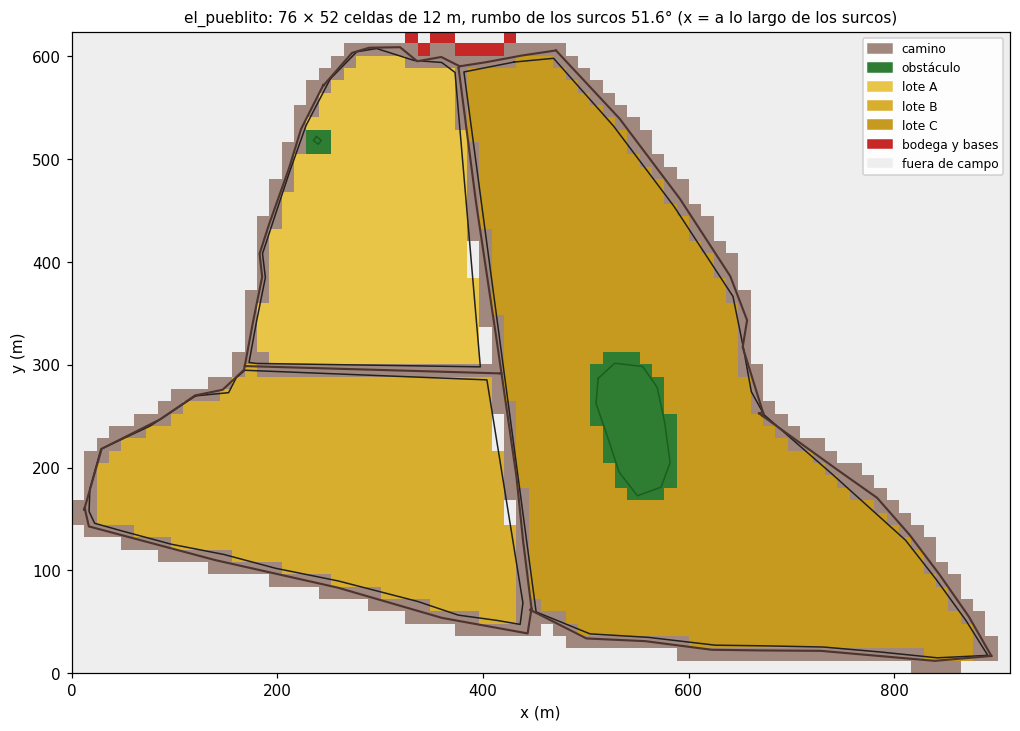
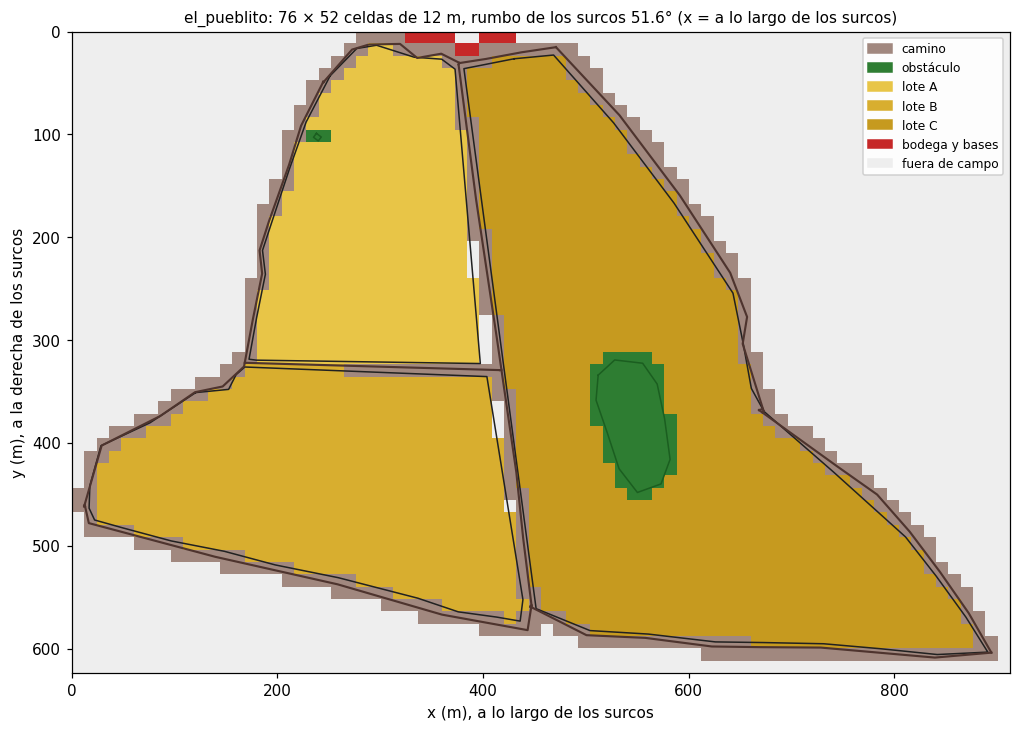
Mapa sin espejo: el eje y de la cuadrícula va a la derecha de los surcos
Unity dibuja la celda (x, y) en (x·s, 0, −y·s) y harvest_sim usa norte = y − 1. Con la y a la
izquierda de los surcos, El Pueblito habría salido en espejo. Ahora la y va a la derecha: el marco,
la afín del relieve, la figura (y hacia abajo) y la especificación cambian juntos. El mapa se
regeneró (1772 celdas de campo, -2.6 %; bodega en [31, 1]) y se volvió a correr G con 4 estrategias x
20 seeds: sigue con 0 colisiones, 0 BLOQUEO, 0 R12 y 0 carros sobre cultivo.

diff --git a/tools/kml_a_mapa.py b/tools/kml_a_mapa.py
@@ -49,7 +49,8 @@ def dibujar(mapa: dict, ruta: Path) -> None:
     tonos = ["#e8c547", "#d8ae2f", "#c69a1f", "#b5891a", "#a27a17"][:len(lotes)]
     colores = ["#eeeeee", "#a1887f", "#2e7d32"] + tonos + ["#c62828"]
     fig, ax = plt.subplots(figsize=(11, 11 * h / w + 1))
-    ax.imshow(g, cmap=ListedColormap(colores), origin="lower", extent=(0, w * s, 0, h * s), vmin=0, vmax=patio,
+    # y crece hacia abajo (como en Unity, donde la celda (x, y) va en (x·s, 0, −y·s)): así el dibujo no sale en espejo
+    ax.imshow(g, cmap=ListedColormap(colores), origin="upper", extent=(0, w * s, h * s, 0), vmin=0, vmax=patio,
               interpolation="nearest")
     formas = mapa["geo"]["formas"]
     for pol in formas["lotes"].values():
@@ -67,8 +68,8 @@ def dibujar(mapa: dict, ruta: Path) -> None:
     ax.legend(handles=leyenda, loc="upper right", fontsize=8, framealpha=0.9)
     ax.set_title(f"{mapa['nombre']}: {w} × {h} celdas de {s:g} m, rumbo de los surcos "
                  f"{mapa['geo']['rumbo_grados']:.1f}° (x = a lo largo de los surcos)", fontsize=10)
-    ax.set_xlabel("x (m)")
-    ax.set_ylabel("y (m)")
+    ax.set_xlabel("x (m), a lo largo de los surcos")
+    ax.set_ylabel("y (m), a la derecha de los surcos")
     ruta.parent.mkdir(parents=True, exist_ok=True)
     fig.savefig(ruta, dpi=110, bbox_inches="tight")
     plt.close(fig)

diff --git a/src/harvest_sim/mapa/convertir.py b/src/harvest_sim/mapa/convertir.py
@@ -53,7 +53,9 @@ class ErrorMapa(ValueError):
 
 @dataclass
 class Marco:
-    """Marco de la cuadrícula: x a lo largo de los surcos (rumbo θ), y = x girado 90° a la izquierda."""
+    """Marco de la cuadrícula: x a lo largo de los surcos (rumbo θ) e y a la DERECHA de los surcos (x girado
+    90° en sentido horario). Así, con la convención de harvest_sim y de Unity (norte = y − 1; Unity dibuja la
+    celda (x, y) en (x·s, 0, −y·s)), el mapa se ve como en la realidad, sin espejo."""
     e0: float
     n0: float
     rumbo: float
@@ -61,11 +63,11 @@ class Marco:
     def a_cuadricula(self, e: float, n: float) -> tuple[float, float]:
         t = math.radians(self.rumbo)
         de, dn = e - self.e0, n - self.n0
-        return de * math.sin(t) + dn * math.cos(t), -de * math.cos(t) + dn * math.sin(t)
+        return de * math.sin(t) + dn * math.cos(t), de * math.cos(t) - dn * math.sin(t)
 
     def a_utm(self, x: float, y: float) -> tuple[float, float]:
         t = math.radians(self.rumbo)
-        return self.e0 + x * math.sin(t) - y * math.cos(t), self.n0 + x * math.cos(t) + y * math.sin(t)
+        return self.e0 + x * math.sin(t) + y * math.cos(t), self.n0 + x * math.cos(t) - y * math.sin(t)
 
 
 def _nombre_corto(nombre: str) -> str:

diff --git a/src/harvest_sim/mapa/relieve.py b/src/harvest_sim/mapa/relieve.py
@@ -23,14 +23,14 @@ ATRIBUCION_DEM = (
 
 
 def transformacion_cuadricula(geo: dict, tamano_celda_m: float):
-    """Afín de (columna, fila) de la cuadrícula a UTM: E = E0 + s·sinθ·col − s·cosθ·fila,
-    N = N0 + s·cosθ·col + s·sinθ·fila (el mismo marco de convertir.Marco)."""
+    """Afín de (columna, fila) de la cuadrícula a UTM: E = E0 + s·sinθ·col + s·cosθ·fila,
+    N = N0 + s·cosθ·col − s·sinθ·fila (el mismo marco de convertir.Marco: y a la derecha de los surcos)."""
     from affine import Affine
 
     t = math.radians(geo["rumbo_grados"])
     s = tamano_celda_m
     e0, n0 = geo["origen_utm"]
-    return Affine(s * math.sin(t), -s * math.cos(t), e0, s * math.cos(t), s * math.sin(t), n0)
+    return Affine(s * math.sin(t), s * math.cos(t), e0, s * math.cos(t), -s * math.sin(t), n0)
 
 
 def alturas_en_cuadricula(ruta_dem: str | Path, geo: dict, tamano_celda_m: float, ancho: int, alto: int):

diff --git a/tests/test_mundo_mapa.py b/tests/test_mundo_mapa.py
@@ -96,7 +96,7 @@ def test_r12_fuera_de_campo_es_fijo_para_todos(mundo_g):
 
 def test_r13_cultivo_en_pie_solo_para_carros(mundo_g):
     campo = mundo_g.cultivo_en_pie()
-    assert len(campo) == 1762
+    assert len(campo) == 1772
     assert campo <= mundo_g.bloqueadas_para("carro_1")
     assert not campo & mundo_g.bloqueadas_para("cosechadora_1")
     cosechadora = Dummy("cosechadora_1")
@@ -150,7 +150,7 @@ def test_mas_cosechadoras_que_lotes_parte_el_mas_grande(config_g):
     zonas = mundo.zonas()
     assert len(zonas) == 4 and all(zonas.values())
     todas = [c for j in range(1, 5) for c in mundo.camino(f"cosechadora_{j}")]
-    assert len(todas) == len(set(todas)) == 1762
+    assert len(todas) == len(set(todas)) == 1772
 
 
 def test_descripcion_23_valida(mundo_g, config_g):

diff --git a/tests/test_mapa.py b/tests/test_mapa.py
@@ -85,7 +85,7 @@ def test_area_dentro_de_la_tolerancia(generado):
     linea = next(x for x in reporte if x.startswith("área:"))
     error = float(linea.split("(")[1].split(",")[1].split("%")[0])
     assert abs(error) < 5
-    assert {n: len(c) for n, c in mapa["lotes"].items()} == {"A": 353, "B": 487, "C": 922}
+    assert {n: len(c) for n, c in mapa["lotes"].items()} == {"A": 364, "B": 489, "C": 919}
 
 
 def test_arboleda_y_poste_son_obstaculos(generado):

diff --git a/docs/especificacion_terreno.md b/docs/especificacion_terreno.md
@@ -69,12 +69,12 @@ Cada celda es de un solo tipo, con esta prioridad:
 | 4 | `patio` | Bodega y bases (§4.5) |
 | 5 | `fuera_de_campo` | Todo lo demás |
 
-Si, por respetar el campo de las orillas, los caminos en celdas quedan en varias piezas (aunque la red geométrica sea una), cada pieza se une a la principal por el **puente más corto de celdas de campo**. Esas celdas pasan a camino y el reporte dice cuántas son (21 en El Pueblito).
+Si, por respetar el campo de las orillas, los caminos en celdas quedan en varias piezas (aunque la red geométrica sea una), cada pieza se une a la principal por el **puente más corto de celdas de campo**. Esas celdas pasan a camino y el reporte dice cuántas son (17 en El Pueblito).
 
 Cada celda de campo guarda su lote (A, B o C).
 
 **Validaciones** (el convertidor falla si no se cumplen):
-- el área cosechable difiere en menos de 5 % del área real: lotes menos obstáculos, porque el KML no tiene huecos y la arboleda está dentro del lote C. En El Pueblito la diferencia es de −3.2 %;
+- el área cosechable difiere en menos de 5 % del área real: lotes menos obstáculos, porque el KML no tiene huecos y la arboleda está dentro del lote C. En El Pueblito la diferencia es de −2.6 %;
 - todo el campo es alcanzable desde la bodega por camino, patio o campo;
 - cada lote toca al menos una celda de camino.
 
@@ -123,8 +123,9 @@ La bodega y las bases van en celdas que no son campo ni camino, pegadas al camin
 
 - `altura_m` es opcional (§8).
 - `geo.formas` está en **metros del marco de la cuadrícula**: el origen es la esquina de la celda (0, 0), x a lo largo de los surcos y y perpendicular.
-- `geo.origen_utm` = (E0, N0) y `geo.rumbo_grados` = θ (desde el norte, en sentido horario) permiten volver a UTM. El eje x de la cuadrícula es la dirección de los surcos, (sin θ, cos θ) en (E, N), y el eje y es ese mismo eje girado 90° a la izquierda, (−cos θ, sin θ):
-  `E = E0 + x·sin θ − y·cos θ`, `N = N0 + x·cos θ + y·sin θ` (x e y en metros del marco de la cuadrícula).
+- `geo.origen_utm` = (E0, N0) y `geo.rumbo_grados` = θ (desde el norte, en sentido horario) permiten volver a UTM. El eje x de la cuadrícula es la dirección de los surcos, (sin θ, cos θ) en (E, N). El eje y apunta a la **derecha** de los surcos, (cos θ, −sin θ):
+  `E = E0 + x·sin θ + y·cos θ`, `N = N0 + x·cos θ − y·sin θ` (x e y en metros del marco de la cuadrícula).
+  La y va a la derecha para que coincida con la convención de harvest_sim (norte = y − 1) y de Unity (la celda (x, y) se dibuja en (x·s, 0, −y·s)): así el mapa se ve como en la realidad y no en espejo.
 
 ## 6. Trace 2.3
 
@@ -160,14 +161,14 @@ Solo agrega campos a la versión 2.2. `TraceBuilder` escribe `"2.3"` **solo si e
 - `mundo.bloqueadas_para(agent_id)` devuelve las celdas fijas más, para los carros, el campo sin cosechar. El conjunto en pie se actualiza con cada cosecha.
 - El carro se estaciona junto a la cosechadora en rastrojo o camino. La celda de atrás en la pasada siempre está cosechada.
 - Cuando la ruta de un carro se alarga por rodear el cultivo, se registra `RESTRICCION` con `regla: "R13_cultivo_en_pie"`, una por tramo.
-- En traslado, la cosechadora prefiere caminos y rastrojo. Si no hay ruta así (un borde irregular del lote), cruza su propio cultivo en pie y se cuenta (`Cosechadora.cruces_cultivo`). En G pasa 16 ticks por corrida (~1 % de sus ticks), en los cambios de pasada sobre bordes irregulares.
+- En traslado, la cosechadora prefiere caminos y rastrojo. Si no hay ruta así (un borde irregular del lote), cruza su propio cultivo en pie y se cuenta (`Cosechadora.cruces_cultivo`). En G pasa 23 ticks por corrida (~1.5 % de los ticks), en los cambios de pasada sobre bordes irregulares.
 - Si un carro no tiene ruta, rechaza la llamada con `sin_ruta`.
 
 ## 8. Relieve
 
 - `config/mapas/el_pueblito_dem.tif` es la ventana de El Pueblito (49 × 53 píxeles, 8 KB) del **Copernicus DEM GLO-30**. Se leyó del COG público `Copernicus_DSM_COG_10_N21_00_W103_00_DEM.tif` (AWS Open Data) y sirve para regenerar el mapa sin red.
 - `mapa/relieve.py` lo remuestrea con interpolación **bilineal** (`rasterio.warp.reproject`) en el centro de cada celda, con una afín girada igual a la de la cuadrícula. El resultado va a `altura_m` del mapa y de `mundo`, y la atribución a `geo.atribucion`. Se activa con `"dem"` en el convertidor.
-- **El Pueblito:** el campo va de 1705 a 1715 m. La pendiente media entre celdas vecinas es de 1.5 %, el percentil 95 de 5.4 % y la máxima de 16 %. El GLO-30 es un **modelo de superficie** (incluye árboles y construcciones), así que la arboleda aparece un poco más alta; se documenta.
+- **El Pueblito:** el campo va de 1705 a 1716 m. La pendiente media entre celdas vecinas es de 1.5 %, el percentil 95 de 5.2 % y la máxima de 16.6 %. El GLO-30 es un **modelo de superficie** (incluye árboles y construcciones), así que la arboleda aparece un poco más alta; se documenta.
 - **Consumo por pendiente:** `combustible.factor_pendiente` (0 por defecto, sin efecto). Al subir de una celda a otra, el consumo por celda se multiplica por `1 + f · Δh / tamano_celda_m`; al bajar no se descuenta. La idea sale de ASABE D497 (resistencia por pendiente) y el valor de f es un supuesto documentado.
   - En G con f = 2, el combustible usado sube de 6144 a 6242 L (+1.6 %); el tiempo no cambia.
 - **Unity** construye su terreno interpolando `altura_m`: no hace falta un heightmap aparte.
@@ -217,9 +218,9 @@ Solo agrega campos a la versión 2.2. `TraceBuilder` escribe `"2.3"` **solo si e
 | `tasa_transferencia` | 12 por tick | Sinfín de descarga de ~150 L/s (~0.11 t/s ≈ 0.8 t por tick) |
 | `tasa_descarga` | 24 por tick | Carro de 550 bu/min (~14 t/min ≈ 1.6 t por tick) |
 
-**Zonas:** la cosechadora 1 lleva el lote C (922 celdas) y la 2 los lotes A y B (840).
+**Zonas:** la cosechadora 1 lleva el lote C (919 celdas) y la 2 los lotes A y B (853).
 
-**Corrida de humo** (seed 0, estrategia base, antes de los ajustes de agentes de P5): termina en 1708 ticks y su trace 2.3 valida, con 0 colisiones y 0 BLOQUEO. Corre en ~11 s.
+**Corridas:** ver §13 (las 4 estrategias, unos 20 s por corrida).
 
 En el trace, `config.mapa` queda como `{"archivo", "sha256"}`: el mapa completo ya va en `mundo`. A–F no cambian sus métricas, aunque `config.politica` ahora incluye `respetar_cultivo: false`.
 
@@ -229,12 +230,12 @@ En el trace, `config.mapa` queda como `{"archivo", "sha256"}`: el mapa completo 
 
 | Estrategia | Ticks | Ocio total | Colisiones | BLOQUEO | R12 | Carros sobre cultivo (R13) | Cosechadora sobre cultivo sin cosechar |
 |---|---|---|---|---|---|---|---|
-| base | 1754 | 685 | 0 | 0 | 0 | 0 | 16 ticks |
-| subasta | 1773 | 717 | 0 | 0 | 0 | 0 | 16 ticks |
-| anticipada | 1514 | 212 | 0 | 0 | 0 | 0 | 16 ticks |
-| anticipada_plus | 1505 | 202 | 0 | 0 | 0 | 0 | 16 ticks |
+| base | 1692 | 806 | 0 | 0 | 0 | 0 | 23 ticks |
+| subasta | 1701 | 797 | 0 | 0 | 0 | 0 | 23 ticks |
+| anticipada | 1481 | 390 | 0 | 0 | 0 | 0 | 23 ticks |
+| anticipada_plus | 1463 | 360 | 0 | 0 | 0 | 0 | 23 ticks |
 
 - Las 80 corridas terminan y validan, y entregan el 100 % del grano. Tardan ~21 s cada una.
 - G no tiene incertidumbre, así que las 20 seeds dan lo mismo.
-- En el campo real, el **despacho anticipado baja el ocio un 69 %**: los traslados son largos y el carro necesita salir antes.
-- **R13 no alarga ninguna ruta en las corridas:** la cosecha avanza desde la entrada, así que el rastrojo une siempre los caminos con la cosechadora. Además, en la cuadrícula rodear por un camino en escalera mide lo mismo que cruzar (vecindad 4); R13 solo alarga las rutas que tienen que retroceder. La prueba `test_r13_se_registra_cuando_el_carro_rodea_el_cultivo` construye ese caso: llegar al camino (12, 23) sin pisar maíz cuesta 106 celdas más, y se registra la `RESTRICCION`.
+- En el campo real, el **despacho anticipado baja el ocio un 52 %** (55 % con anticipada_plus): los traslados son largos y el carro necesita salir antes.
+- **R13 casi nunca alarga una ruta en las corridas** (1 restricción por corrida en anticipada_plus): la cosecha avanza desde la entrada, así que el rastrojo une siempre los caminos con la cosechadora. Además, en la cuadrícula rodear por un camino en escalera mide lo mismo que cruzar (vecindad 4); R13 solo alarga las rutas que tienen que retroceder. La prueba `test_r13_se_registra_cuando_el_carro_rodea_el_cultivo` construye ese caso: llegar al camino (12, 23) sin pisar maíz cuesta 106 celdas más, y se registra la `RESTRICCION`.
